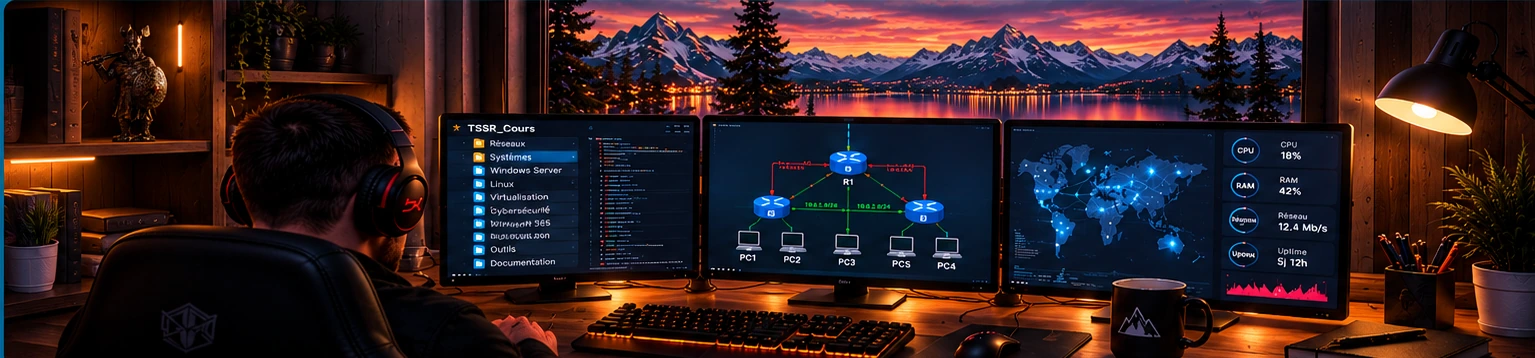
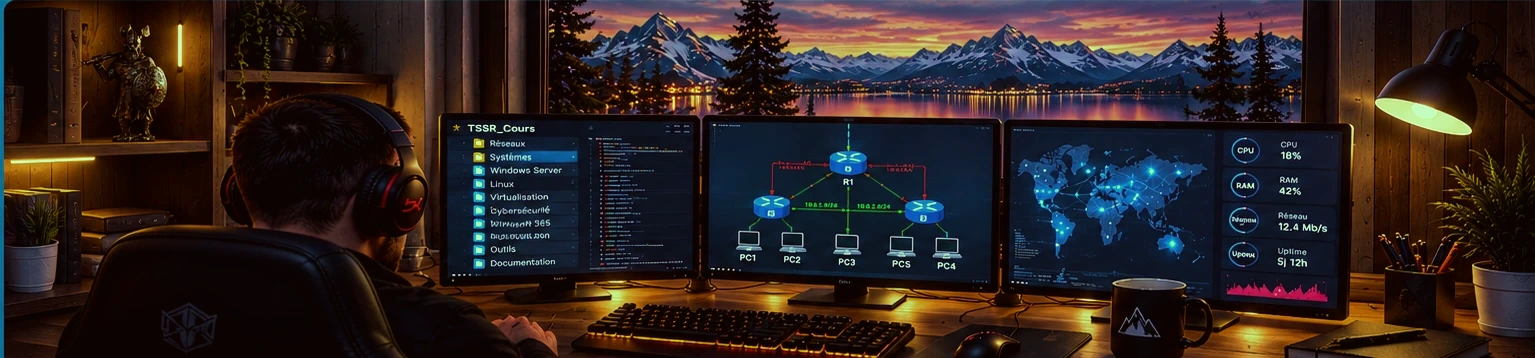
V25.1

diff --git a/assets/tssr-ambiances.css b/assets/tssr-ambiances.css
@@ -44,3 +44,12 @@ html[data-tssr-ambiance="studio"]{--amb-accent:#d5e1ef;--amb-glow:213,225,239}
 .tssr-studio-home .tssr-hero-live,
 .tssr-studio-home .v20-effects,
 .tssr-studio-home .v22-effects{display:none!important}
+
+/* V25.1 — cadrage complet des images originales 1535x358 : aucune deformation, aucun zoom. */
+.tssr-studio-home .studio-hero{overflow:hidden!important}
+.tssr-studio-home .studio-scene{inset:0!important;transform:none!important;animation:none!important;background:none!important;overflow:hidden!important}
+.tssr-studio-home .studio-scene .v19-cinema{display:block!important;width:100%!important;height:100%!important;object-fit:contain!important;object-position:center center!important;transform:none!important;animation:none!important;filter:none!important}
+.tssr-studio-home .studio-hero,.tssr-studio-home .studio-scene{background-color:#071725!important}
+/* Supprimer toutes les anciennes animations de fumee, scintillement et lumiere gauche. */
+.tssr-studio-home .tssr-hero-live,.tssr-studio-home .tssr-steam,.tssr-studio-home .v20-effects,.tssr-studio-home .v22-effects,.tssr-studio-home .v19-steam,.tssr-studio-home .studio-steam,.tssr-studio-home .studio-sparks,.tssr-studio-home .studio-glow{display:none!important;animation:none!important}
+.tssr-studio-home .studio-hero::before,.tssr-studio-home .studio-hero::after{display:none!important}
